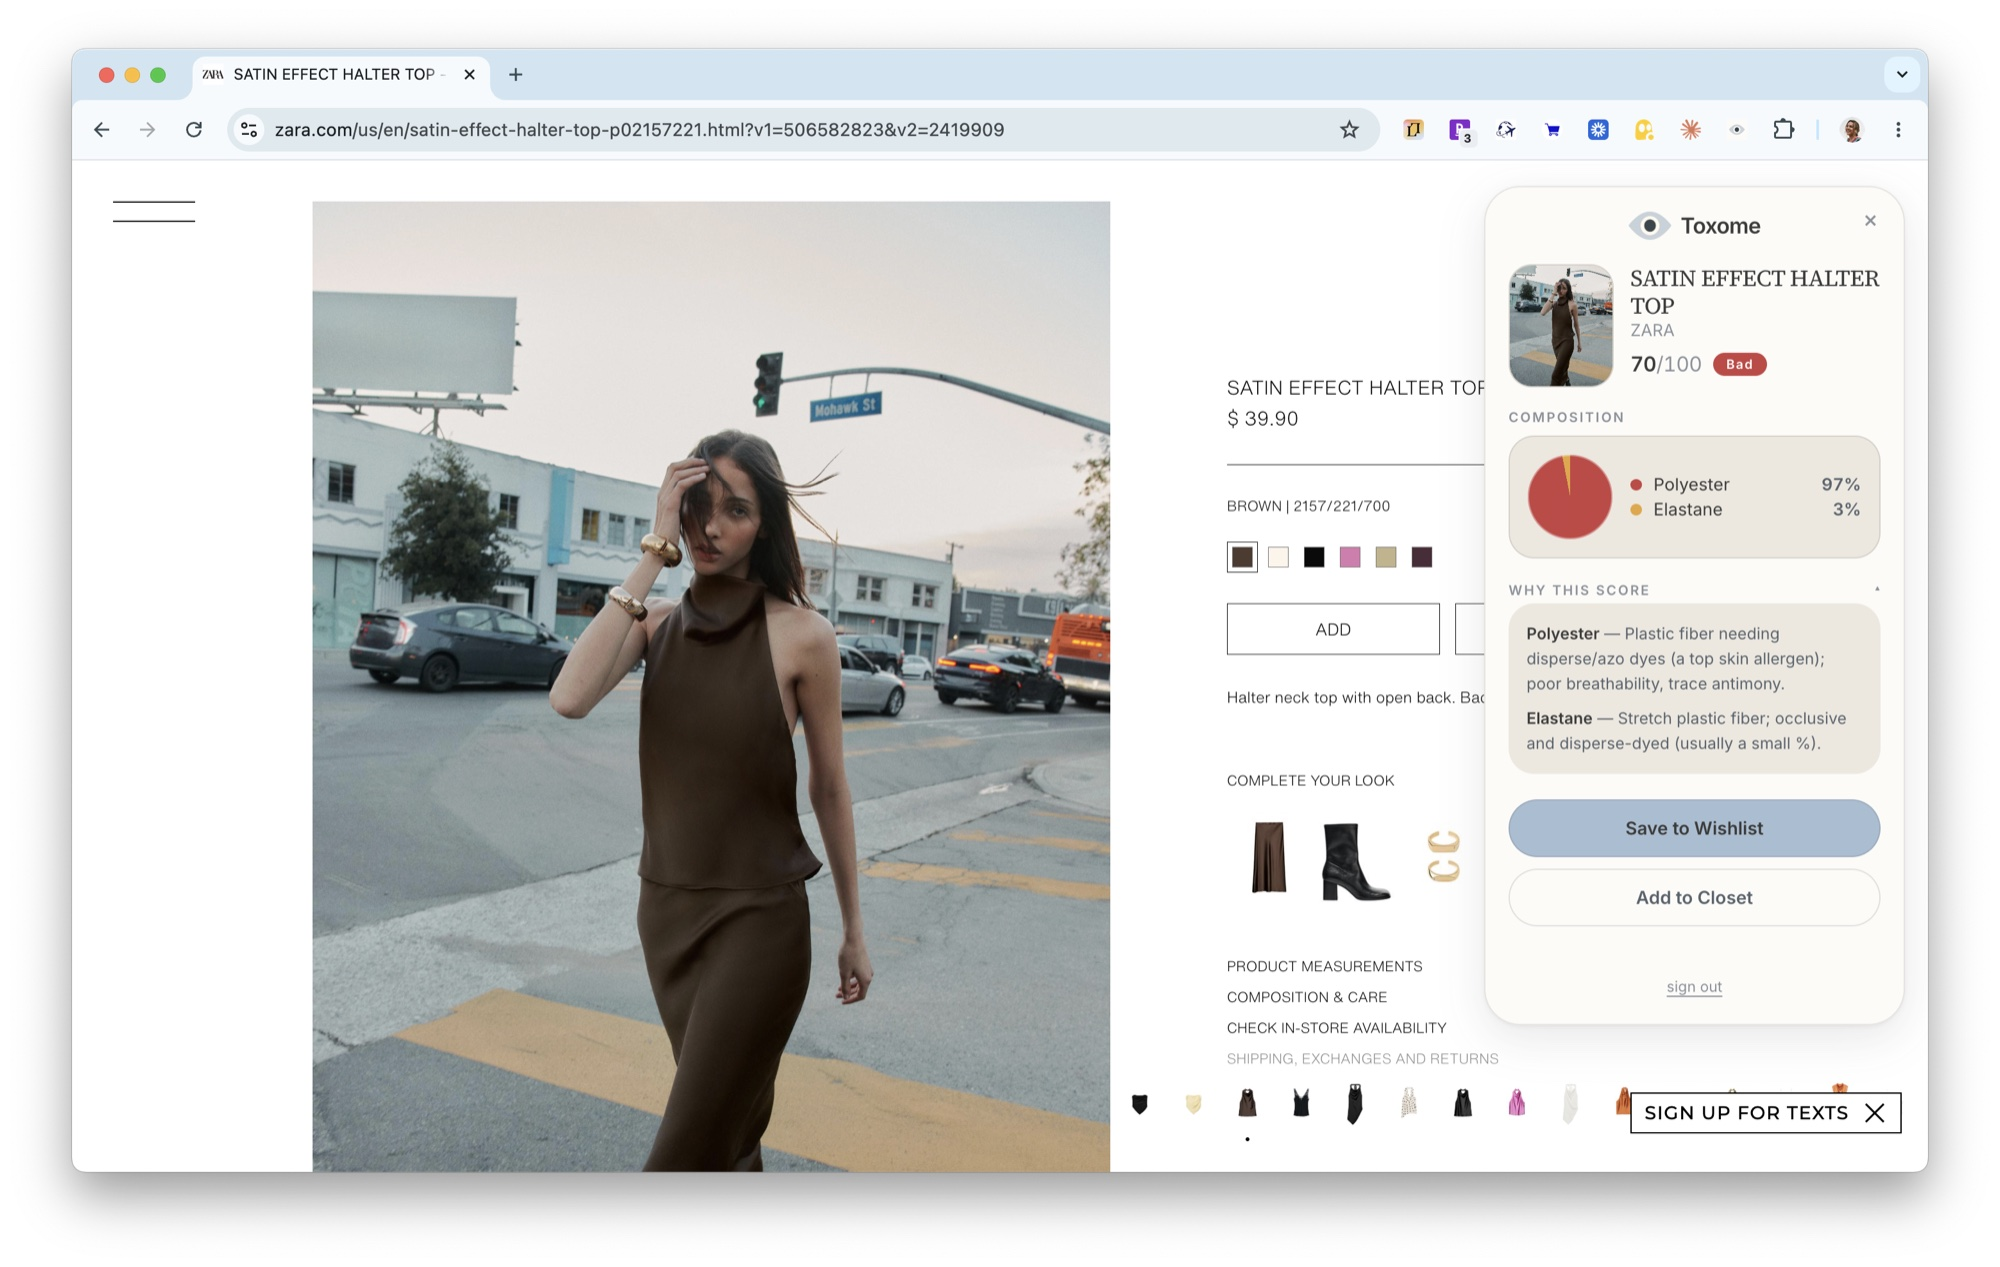
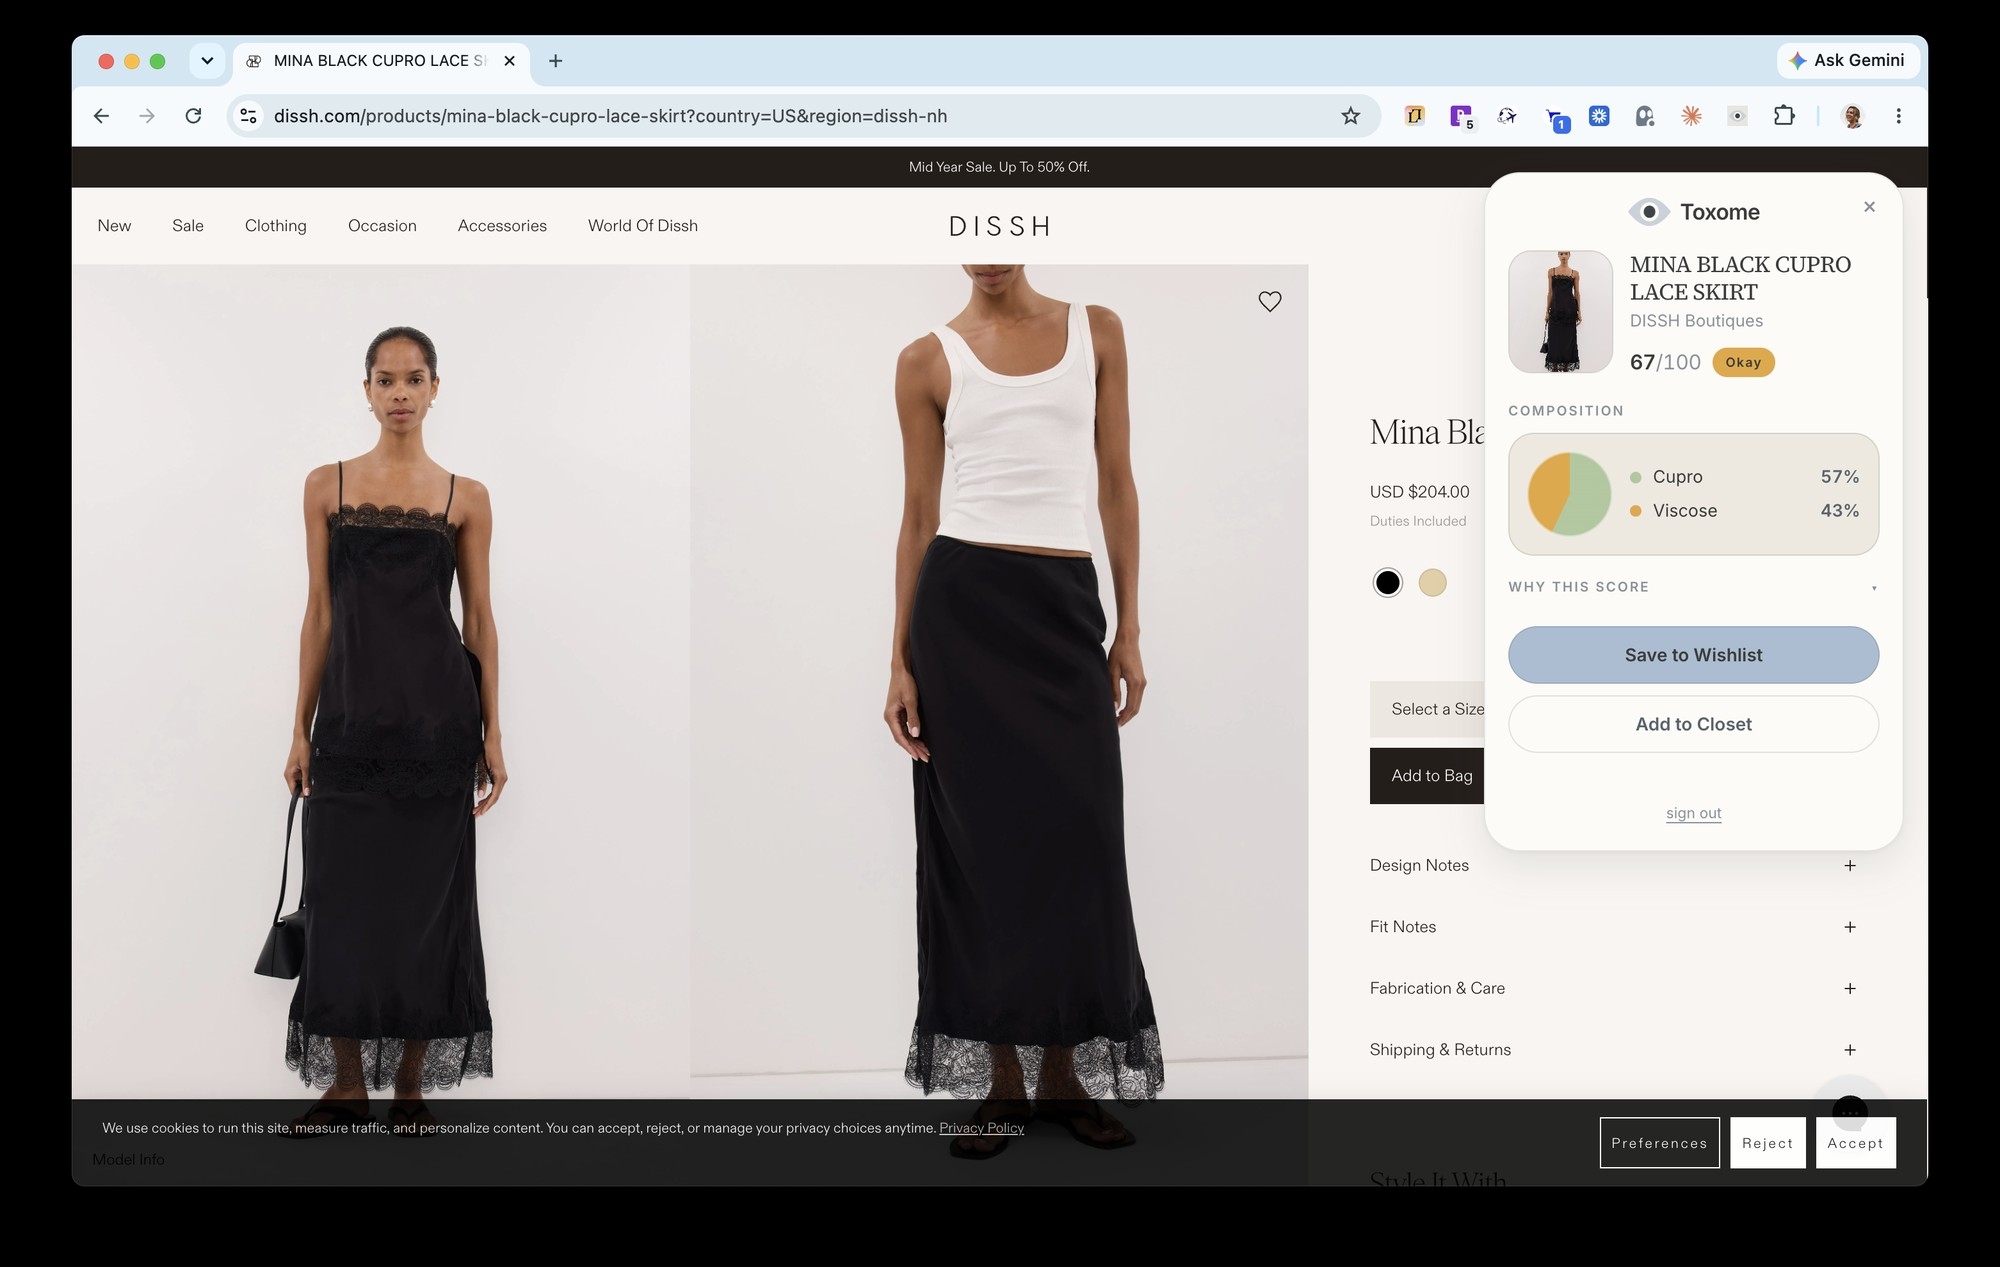
Extension page: swap preview to V2-correct DISSH shot (67/100 Okay)
Replace the stale Zara preview (showed 70/100 'Bad', pre-V2) with the DISSH cupro/viscose screenshot at 67/100 Okay, matching the live V2 scoring. Updated alt text. Same 2000x1267 slot.

diff --git a/app/extension/page.tsx b/app/extension/page.tsx
@@ -183,7 +183,7 @@ export default async function ExtensionPage() {
         >
           <Image
             src="/extension/preview.jpg"
-            alt="The Toxome extension card open on a Zara product page, showing a 70/100 'Bad' rating, a 97% polyester / 3% elastane composition breakdown, why-this-score notes, and Save to Wishlist and Add to Closet buttons."
+            alt="The Toxome extension card open on a DISSH product page, showing a 67/100 'Okay' rating, a 57% cupro / 43% viscose composition breakdown, why-this-score notes, and Save to Wishlist and Add to Closet buttons."
             width={2000}
             height={1267}
             sizes="(max-width: 1100px) 100vw, 1040px"